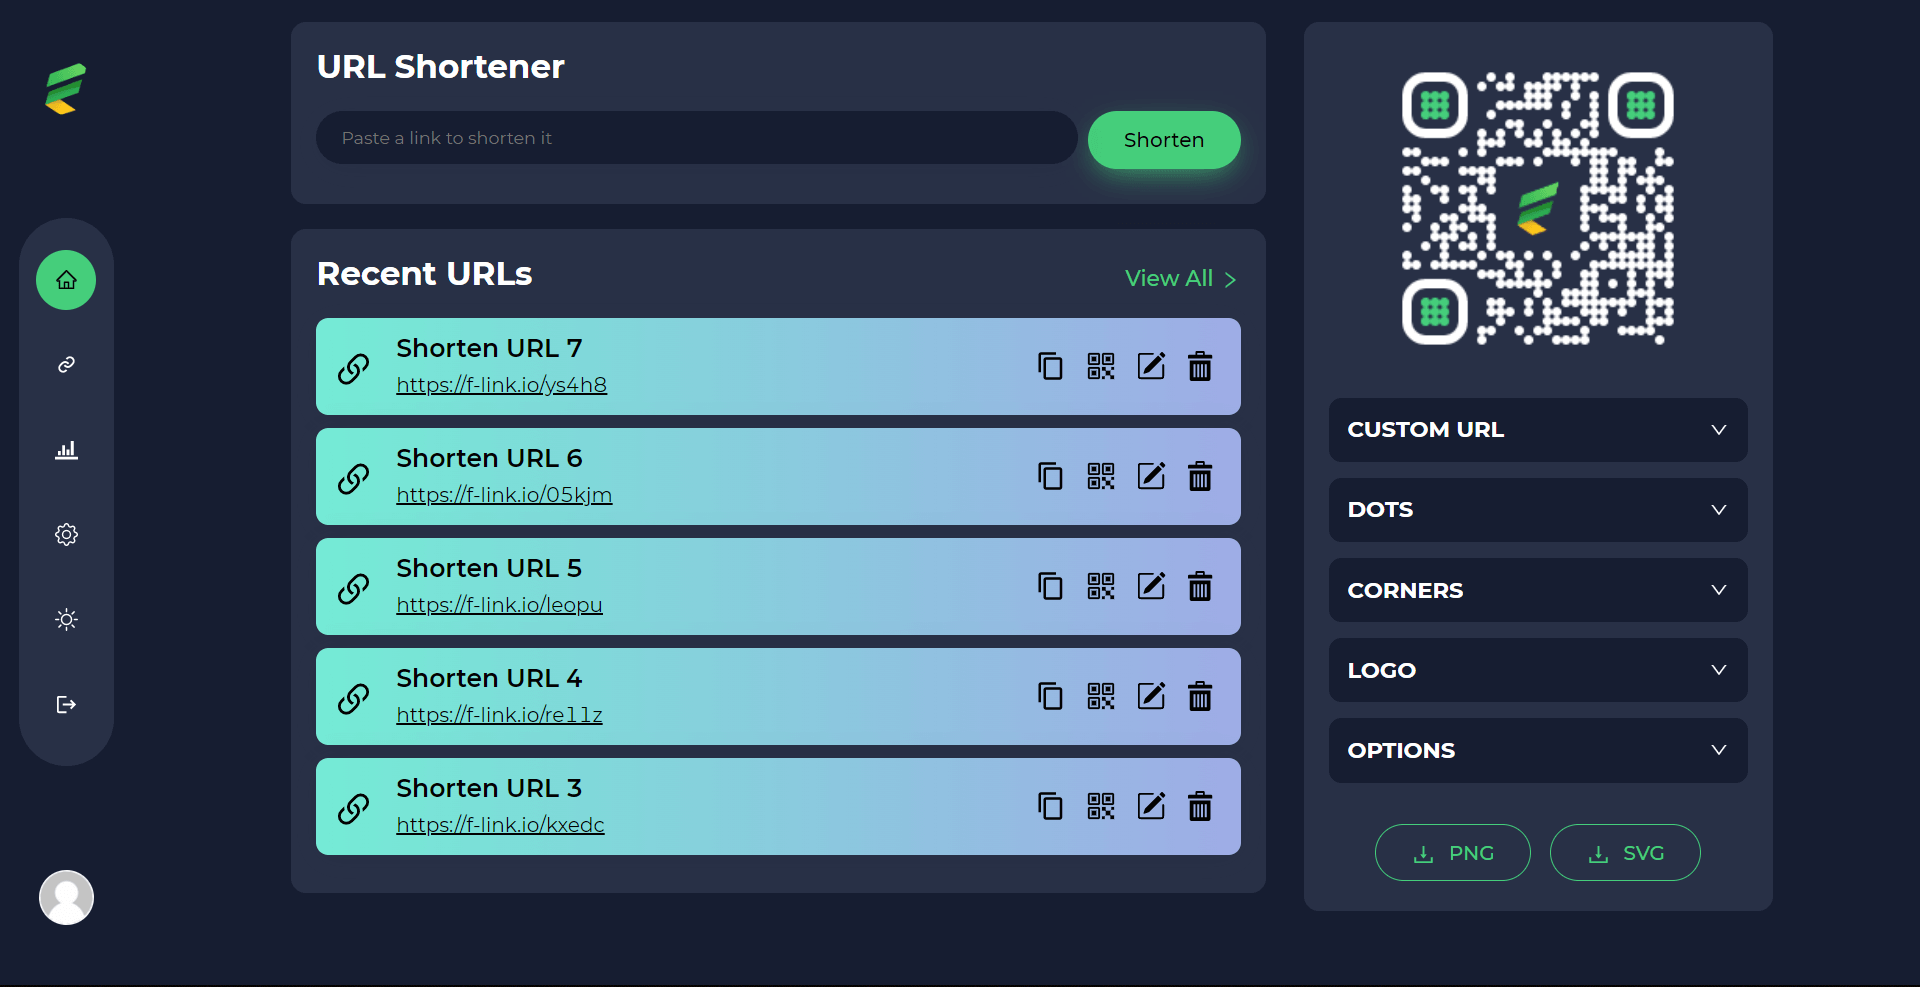
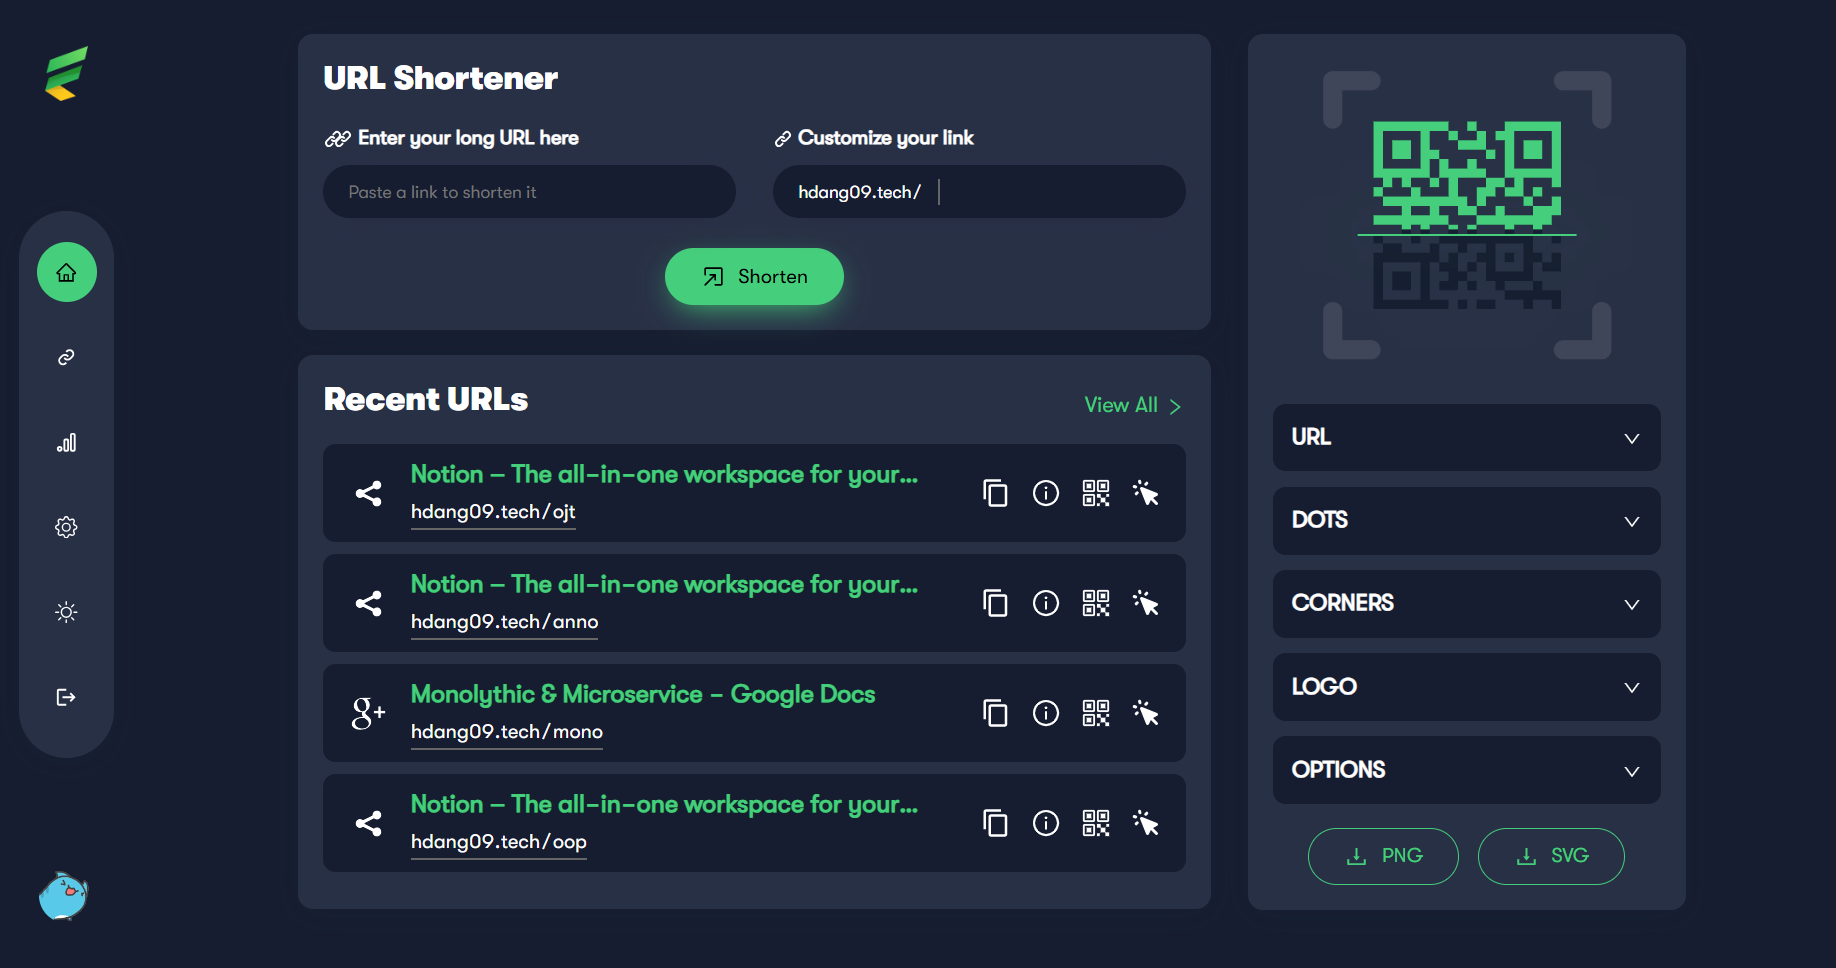
UPDATE - Add shorten URL feature without login

diff --git a/src/components/URLShortener/URLShortener.jsx b/src/components/URLShortener/URLShortener.jsx
@@ -1,7 +1,9 @@
 import { createRef, useState } from 'react';
 import { HiLink } from 'react-icons/hi';
+import { RxOpenInNewWindow } from 'react-icons/rx';
 import { useDispatch } from 'react-redux';
 import { toast } from 'react-toastify';
+import { Modal } from 'antd';
 import isUrl from 'is-url';
 import { nanoid } from 'nanoid';
 import { Col, Row } from 'styled-bootstrap-grid';
@@ -9,12 +11,13 @@ import { Col, Row } from 'styled-bootstrap-grid';
 import { add } from '../../app/reducers/urlReducer';
 import { Button, Input } from '../../components';
 import config from '../../config';
+import handleCopy from '../../utils/handleCopy';
 import removeHttps from '../../utils/removeHttps';
 import { shortenUrl } from '../../utils/urlAPI';
 
 import * as Styled from './URLShortener.styled';
 
-const URLShortener = () => {
+const URLShortener = ({ isNotLogin = false }) => {
     const dispatch = useDispatch();
 
     const inputRef = createRef();
@@ -28,7 +31,7 @@ const URLShortener = () => {
             return;
         }
 
-        toast.promise(shortenUrl(originalURL, customPath || nanoid(10)), {
+        toast.promise(shortenUrl(originalURL, customPath || nanoid(10), isNotLogin), {
             pending: 'The link is shortening...',
             success: {
                 render({ data }) {
@@ -44,12 +47,31 @@ const URLShortener = () => {
                         setCustomPath('');
                     }
 
+                    if (data.data.code === 201 && isNotLogin) {
+                        const shortenLink = `${removeHttps(config.publicRuntime.API_URL)}/${
+                            data.data.data.shortenLink
+                        }`;
+                        Modal.success({
+                            title: <strong>{shortenLink}</strong>,
+                            okText: 'Copy URL',
+                            content: (
+                                <p>
+                                    Your link will be expired in <strong>7 days</strong>. Please
+                                    login to save this link forever.
+                                </p>
+                            ),
+                            onOk() {
+                                handleCopy(shortenLink);
+                            },
+                        });
+                    }
+
                     return data.data.message;
                 },
             },
             error: {
                 render({ data }) {
-                    return data.response.data.message;
+                    return data.response?.data?.message;
                 },
             },
         });
@@ -101,6 +123,7 @@ const URLShortener = () => {
                 shine="true"
                 onClick={() => handleShortenURL()}
                 style={{ margin: '12px auto 0 auto' }}
+                leftIcon={<RxOpenInNewWindow />}
             >
                 Shorten
             </Button>

diff --git a/src/pages/Landing/Landing.jsx b/src/pages/Landing/Landing.jsx
@@ -3,11 +3,10 @@ import { BsFillCaretRightFill } from 'react-icons/bs';
 import { SiFandom } from 'react-icons/si';
 import { useSelector } from 'react-redux';
 
-// import PropTypes from 'prop-types';
 import { modeSelector } from '../../app/reducers/customizationReducer';
 import lightScreenshot from '../../assets/images/screenshots.png';
 import darkScreenshot from '../../assets/images/screenshots-dark.png';
-import { Button, Header } from '../../components';
+import { Button, Header, URLShortener } from '../../components';
 import config from '../../config';
 import aosInit from '../../utils/aosInit';
 
@@ -62,6 +61,11 @@ function LandingPage() {
                         </Button>
                     </Styled.CtaWrap>
                 </Styled.Hero>
+
+                <Styled.ShortenerCard>
+                    <URLShortener isNotLogin={true} />
+                </Styled.ShortenerCard>
+
                 <Styled.Screenshot src={screenshot} alt="Screenshot" />
                 {/* All Features */}
                 {/* How to start */}

diff --git a/src/assets/styles/GlobalStyles.js b/src/assets/styles/GlobalStyles.js
@@ -111,7 +111,7 @@ const GlobalStyles = createGlobalStyle`
         margin-bottom: 0;
     }
 
-    /* OVerride CSS */
+    /* Override CSS */
     .ant-picker-cell-in-view.ant-picker-cell-selected .ant-picker-cell-inner {
         background: var(--primary-color);
     }
@@ -122,6 +122,12 @@ const GlobalStyles = createGlobalStyle`
 
     img, svg, video, canvas, audio, iframe, embed, object {
         display: inline-block !important;
+    }
+
+    .ant-btn.ant-btn-primary {
+        background-color: var(--primary-color);
+        border-radius: 4px;
+        border: none;
     }
 
 `;

diff --git a/src/pages/Landing/Landing.styled.js b/src/pages/Landing/Landing.styled.js
@@ -1,7 +1,7 @@
 import { down } from 'styled-breakpoints';
 import styled, { keyframes } from 'styled-components';
 
-import { Button } from '../../components';
+import { Button, Card } from '../../components';
 
 export const Main = styled.main`
     background-color: ${(props) => props.theme.cardBackground};
@@ -146,4 +146,8 @@ export const BannerButton = styled.a`
         margin-left: 0 !important;
         margin-top: 1rem;
     }
+`;
+
+export const ShortenerCard = styled(Card)`
+    width: auto;
 `;

diff --git a/src/utils/urlAPI.js b/src/utils/urlAPI.js
@@ -3,8 +3,8 @@ import Cookies from 'universal-cookie';
 import { get, post, put } from './apiCaller';
 
 // URL API
-export const shortenUrl = (link, linkcode) => {
-    const url = '/api/url/shorten';
+export const shortenUrl = (link, linkcode, isNotLogin = false) => {
+    const url = isNotLogin ? '/api/url/shorten/without-login' : '/api/url/shorten';
 
     return post(
         url,
